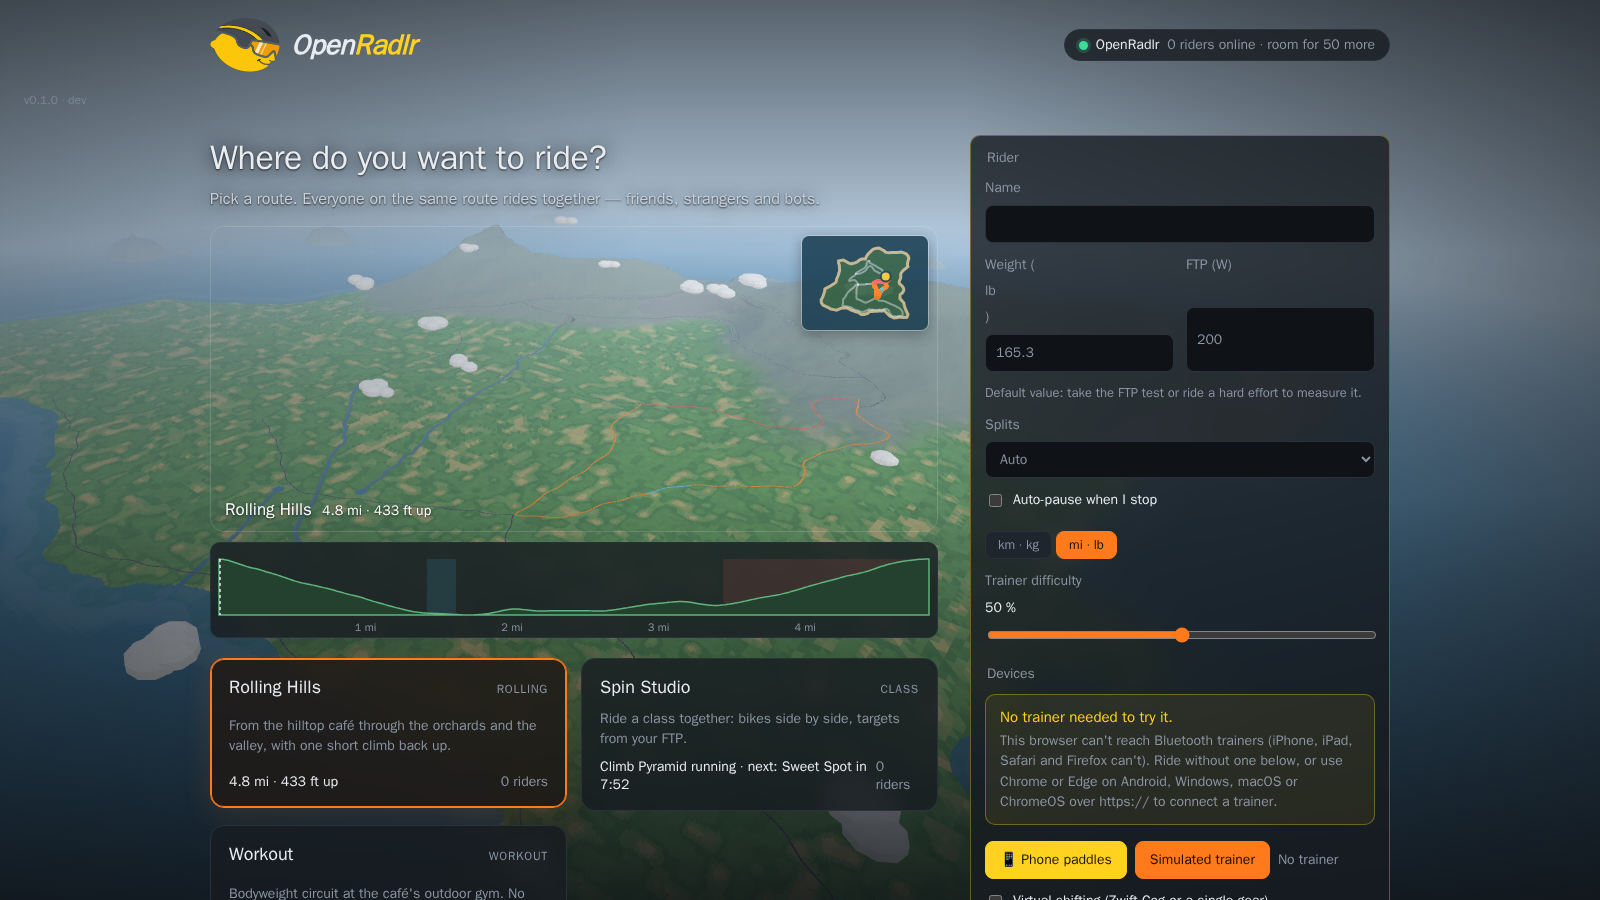
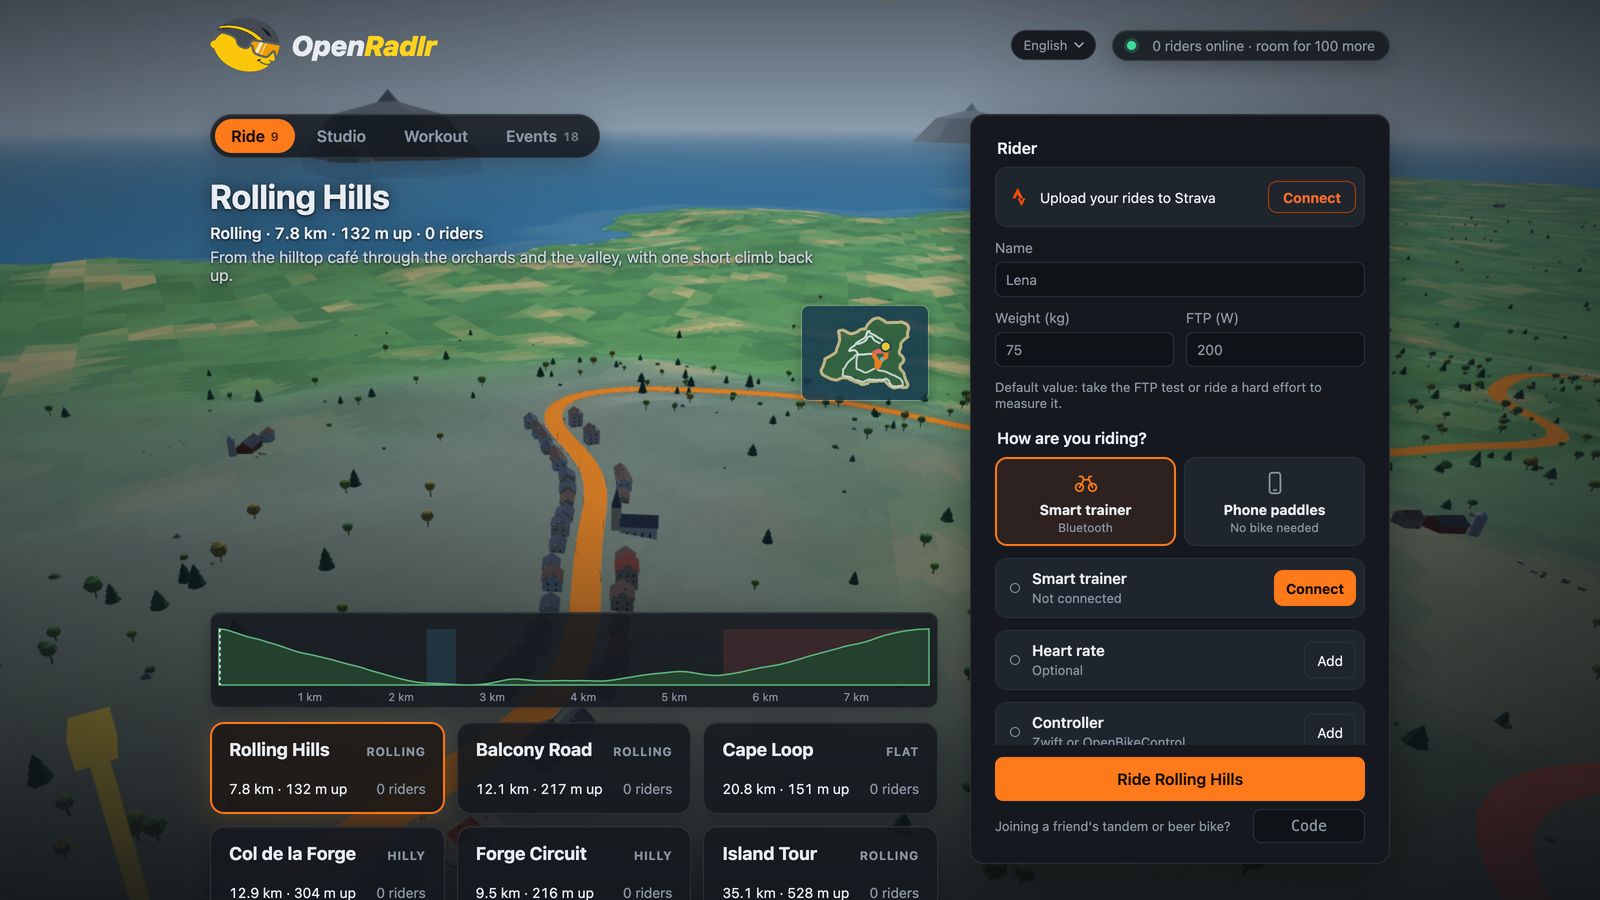
docs: Show a race in the pack and today's start menu in the README
The README's screenshots showed an old start menu and a lone rider. Now:
a race start on Rolling Hills at golden hour, in a pack of bots past a
cheering crowd (broadcast layout, drafting), and the start menu with its
route cards, Strava and the way of riding.

diff --git a/README.md b/README.md
@@ -26,9 +26,9 @@ an app) with a 3D and a 2D view.
 
 <p align="center">
   <img src="docs/assets/screenshot-ride.png" width="49%"
-       alt="Riding Rolling Hills in the 3D view: the rider on a village road, with speed, power and grade in the HUD">
+       alt="A race start on Rolling Hills at golden hour: the rider in a pack of bots past a cheering crowd, drafting, with power, speed and grade at the top, the riders nearby, the route map and the elevation profile">
   <img src="docs/assets/screenshot-menu.png" width="49%"
-       alt="Start menu: the island in 3D, route map and elevation profile, rider settings and devices">
+       alt="Start menu: the island in 3D with the picked route, its map and elevation profile, the route cards, and the rider panel with Strava, the way of riding and the devices">
 </p>
 
 ## Quick start
